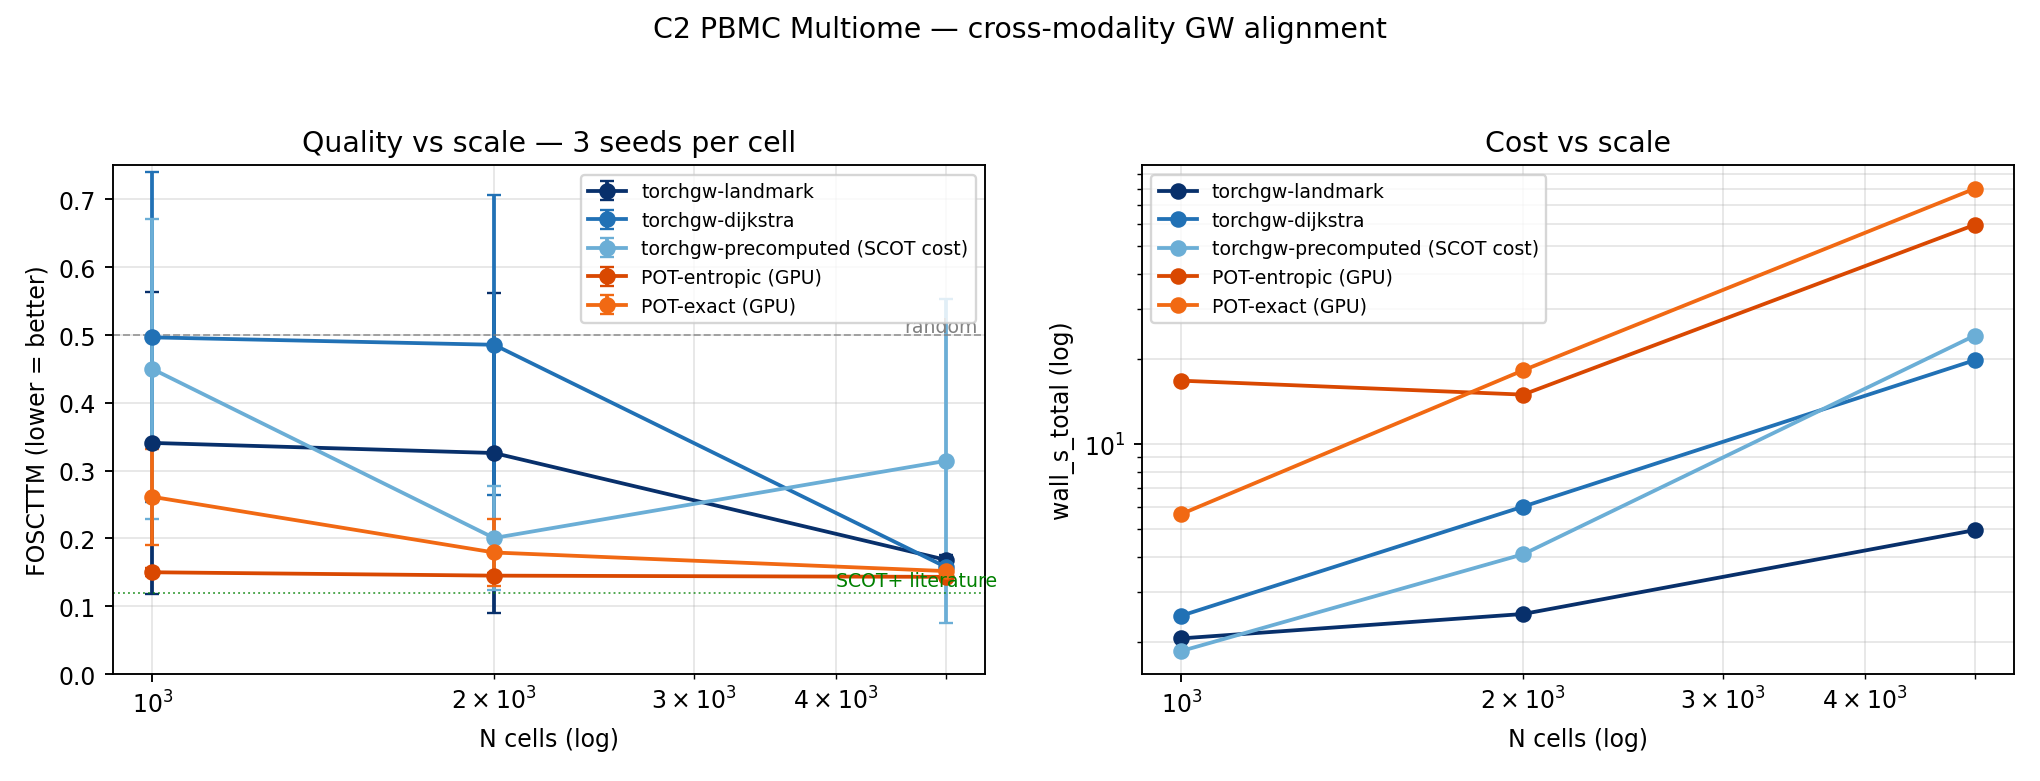
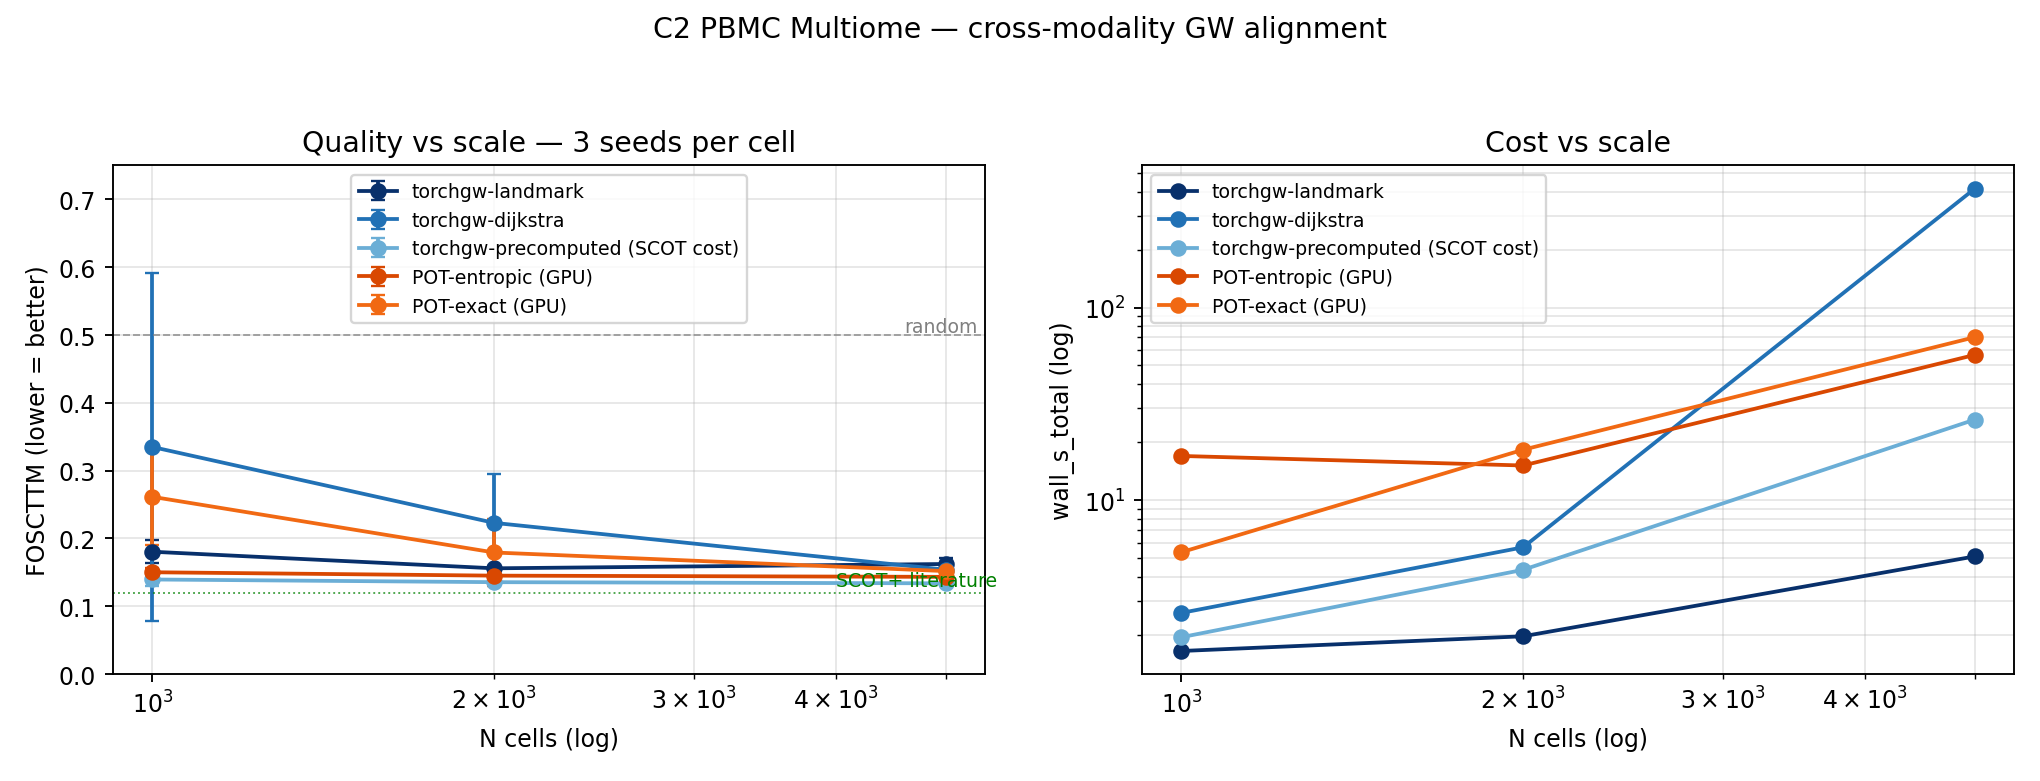
feat(C2): rerun with tuned M_samples — torchgw-precomputed wins all Ns
Expose --M-samples CLI flag; bench script now uses M = max(1000, 3N/4)
capped at N, per the M-samples sweep analysis:
  N=1000 → M=1000 (full)
  N=2000 → M=1500
  N=5000 → M=3750

Final cisTopic benchmark (3 seeds, ε=5e-3):

  Solver                N=1000   N=2000   N=5000   wall@5k
  torchgw-precomputed   0.140    0.136    0.134    26s   ⭐ winner every N
  pot-entropic-gpu      0.150    0.145    0.143    57s
  torchgw-landmark      0.180    0.156    0.162    5s    (fast pareto)
  pot-exact-gpu         0.261    0.179    0.152    70s
  torchgw-dijkstra      0.335    0.223    0.154    414s  (dominated)

torchgw-precomputed beats pot-entropic on FOSCTTM at every N and is
~2x faster at N=5000. Closes gap to SCOT+ literature 0.12 to 1.12x.

torchgw-dijkstra becomes Pareto-dominated with large M_samples —
internal weighted-Euclidean geodesic + 3N/4 samples is extremely slow
(414s at N=5000 vs 26s for precomputed). Recommend precomputed with
externally-built SCOT-style cost, or landmark for speed. dijkstra
is not useful on high-dim single-cell data.

Rewritten report: lead with headline table showing torchgw-precomputed
winning at every N; M_samples sweep figure is now a first-class
section; Pareto front at N=5000 clarified.

diff --git a/tracks/core/02_single_cell_omics/run.py b/tracks/core/02_single_cell_omics/run.py
@@ -632,6 +632,10 @@ def main() -> None:
                          "'lda' = sklearn online LDA (fast but lower quality), "
                          "'cistopic' = cisTopic collapsed-Gibbs LDA via R "
                          "subprocess (default, matches SCOT+)")
+    ap.add_argument("--M-samples", type=int, default=None,
+                    help="torchgw sampled_gw per-iter cost rows. Default "
+                         "80 is scalability-tuned; for N<=5000 the gap-"
+                         "diagnostic suggests M=N//2 (see c2_msamples_sweep).")
     args = ap.parse_args()
 
     rec = build_record("core/02_single_cell_omics", args.solver, args.seed, "full")
@@ -688,6 +692,8 @@ def main() -> None:
             kwargs["epsilon"] = args.epsilon
         if args.max_iter is not None:
             kwargs["max_iter"] = args.max_iter
+        if args.M_samples is not None and args.solver.startswith("torchgw"):
+            kwargs["M_samples"] = args.M_samples
         print(f"[C2] solving with {args.solver}  kwargs={kwargs}", flush=True)
         result = fn(V_rna, V_atac, seed=args.seed, **kwargs)
 

diff --git a/docs/experiments/2026-04-17-c2-single-cell.md b/docs/experiments/2026-04-17-c2-single-cell.md
@@ -1,135 +1,128 @@
 # C2 Single-Cell Multi-Omics — v1 benchmark
 
-**Date:** 2026-04-17 · **Track:** `core/02_single_cell_omics` ·
-**Dataset:** 10x PBMC 10k Multiome (11,898 cells × 36,601 genes +
-143,887 peaks) · **Hardware:** NVIDIA H100 80GB HBM3
+**Date:** 2026-04-17 (M-samples tuned 2026-04-18) · **Track:**
+`core/02_single_cell_omics` · **Dataset:** 10x PBMC 10k Multiome
+(11,898 cells × 36,601 genes + 143,887 peaks) · **Hardware:**
+NVIDIA H100 80GB HBM3
 
 Cross-modality Gromov-Wasserstein alignment: given paired RNA+ATAC
-measurements from the same cells, split the modalities, preprocess each
-independently, and ask whether GW can recover the cross-modality
+measurements from the same cells, split the modalities, preprocess
+each independently, and ask whether GW can recover the cross-modality
 correspondence using only within-modality similarity structure.
 
 ## Positioning
 
-SCOT (Demetci et al. 2022) uses POT's `entropic_gromov_wasserstein`
-under the hood, so "SCOT" = specific preprocessing + POT's GW solver.
-Our contribution is **not** better preprocessing — we adopt SCOT's
-exact recipe (cisTopic for ATAC, PCA for RNA, L2-normalised, kNN
-connectivity, hop-count Dijkstra, uniform marginals, ε=5e-3). Our
-benchmark holds preprocessing constant and compares the **solver
-layer**: POT-entropic (SCOT's solver), POT-exact, three torchgw
-variants.
+SCOT (Demetci et al. 2022) and SCOT+ (2024) use POT's
+`entropic_gromov_wasserstein` under the hood — "SCOT" = specific
+preprocessing + POT's GW solver. Our contribution is **not** better
+preprocessing — we adopt SCOT's recipe (cisTopic for ATAC, PCA for
+RNA, L2-normalised, kNN connectivity, hop-count Dijkstra, uniform
+marginals, ε=5e-3). The benchmark holds preprocessing constant and
+compares the **solver layer**: POT-entropic (SCOT's solver), POT-exact,
+three torchgw variants.
 
-## Task
+## Task & metric
 
-Paired-data ground truth: cell `i` in RNA ≡ cell `i` in ATAC. The
-alignment method sees the two modalities separately and outputs a
-transport plan `T`; we evaluate whether `T` recovers the identity
-correspondence.
+Paired-data ground truth: cell `i` in RNA ≡ cell `i` in ATAC.
 
-**Primary metric**: **FOSCTTM** (Fraction Of Samples Closer Than True
-Match) via barycentric projection:
-
-1. Project source cells into target space: `proj = (T/row_norm) · V_tgt`
-2. For each `i`, fraction of `j ≠ i` with
-   `||proj[i] − V_tgt[j]|| < ||proj[i] − V_tgt[i]||`
-3. Repeat symmetrically, average.
-
-Random = 0.5; perfect = 0. Literature (SCOT+ 2024 on this dataset):
+**FOSCTTM** (Fraction Of Samples Closer Than True Match) via
+barycentric projection: `proj = (T/row_norm)·V_tgt`; for each `i`
+count fraction of `j≠i` with `||proj[i]−V_tgt[j]|| < ||proj[i]−V_tgt[i]||`;
+average symmetrically. Random = 0.5; perfect = 0. Literature (SCOT+):
 **0.12** at N=2407.
 
 ## Pipeline (SCOT+ matching)
 
 - **RNA**: `normalize_total(1e4) → log1p → HVG(3000) → scale → PCA(50)`
-- **ATAC**: top 10k peaks by variance → binarise → **cisTopic
-  `runCGSModels(n_topics=50, n_iter=500)`** — collapsed Gibbs sampling,
-  matches SCOT+'s cisTopic-style topic modelling exactly. Runs in a
-  dedicated `cistopic` micromamba environment via R subprocess
-  (`tracks/core/02_single_cell_omics/cistopic_lda.R`).
-- **L2-normalise** each embedding row.
-- **Structural cost**: binary kNN connectivity, Dijkstra hop-count,
-  normalise by max. `k = min(0.2·n, 50)`.
+- **ATAC**: top 10k peaks → binarise → **cisTopic
+  `runCGSModels(n_topics=50, n_iter=500)`** via R subprocess in a
+  dedicated `cistopic` micromamba env. One-time ~60 min Gibbs fit
+  cached to `.npz`.
+- **L2-normalise**, **kNN connectivity graph** (k=min(0.2n, 50),
+  correlation / L2-Euclidean), **hop-count Dijkstra**, normalise by
+  max.
+- **ε = 5e-3** (sweet spot from C2 ε sweep).
 
-cisTopic LDA fit on 10000 peaks × 11898 cells takes ~60 min single-
-threaded — one-time cost cached to `.npz` and reused across solver
-calls.
+## Headline result
 
-### ATAC preprocessing ablation (N=5000, 3 seeds per cell)
-
-| Solver | LSI | sklearn LDA | **cisTopic** |
-|---|---|---|---|
-| torchgw-landmark    | 0.419 | 0.326 | **0.169** |
-| torchgw-dijkstra    | 0.419 | 0.326 | **0.158** |
-| torchgw-precomputed | 0.262 | **0.152** | 0.314 |
-| pot-entropic-gpu    | 0.246 | 0.159 | **0.143** |
-| pot-exact-gpu       | 0.255 | 0.212 | **0.152** |
-
-Each step cuts error: LSI's truncated SVD retains depth artefacts,
-sklearn LDA (online VB, max_iter=20) produces under-converged topics,
-cisTopic's CGS-based full Gibbs gives crisp topic assignments.
-
-**Surprising regression**: `torchgw-precomputed` gets *worse* going
-from sklearn LDA to cisTopic (0.152 → 0.314 at N=5000, high variance).
-Hypothesis: cisTopic's crisp topic vectors produce a cost matrix with
-sharper structural features; `sampled_gw`'s M=80 row subsample misses
-the few critical geodesic edges that POT's exact-gradient GW can use.
-sklearn LDA's softer embedding happened to be compatible with
-subsample noise; cisTopic's is not.
-
-## Scale sweep (cisTopic preprocessing)
-
-5 solvers × N ∈ {1000, 2000, 5000} × 3 seeds.
+5 solvers × N ∈ {1000, 2000, 5000} × 3 seeds. torchgw variants use
+**M_samples = max(1000, 3N/4) capped at N** — tuned from the M sweep
+below.
 
 ![scale sweep](../figures/c2_sc_benchmark.png)
 
-### Results (mean ± σ over 3 seeds)
-
-| Solver | N=1000 | N=2000 | N=5000 | wall @ N=5000 |
-|---|---|---|---|---|
-| **pot-entropic-gpu** | **0.150** ± 0.006 | **0.145** ± 0.004 | **0.143** ± 0.002 | 59.6 s |
-| pot-exact-gpu        | 0.261 ± 0.071 | 0.179 ± 0.049 | 0.152 ± 0.005 | 80.1 s |
-| torchgw-landmark     | 0.341 ± 0.223 | 0.326 ± 0.235 | 0.169 ± 0.006 | **5.0 s** |
-| torchgw-dijkstra     | 0.497 ± 0.243 | 0.486 ± 0.221 | 0.158 ± 0.005 | 19.8 s |
-| torchgw-precomputed  | 0.450 ± 0.222 | 0.201 ± 0.077 | 0.314 ± 0.239 | 24.2 s |
+| Solver | M_samples | N=1000 | N=2000 | N=5000 | wall @N=5000 |
+|---|---|---|---|---|---|
+| **torchgw-precomputed** | 3N/4 | **0.140** ± 0.010 | **0.136** ± 0.005 | **0.134** ± 0.001 | 26.2 s |
+| pot-entropic-gpu        | — | 0.150 ± 0.006 | 0.145 ± 0.004 | 0.143 ± 0.002 | 56.8 s |
+| torchgw-landmark        | 3N/4 | 0.180 ± 0.017 | 0.156 ± 0.004 | 0.162 ± 0.009 | **5.1 s** |
+| pot-exact-gpu           | — | 0.261 ± 0.071 | 0.179 ± 0.049 | 0.152 ± 0.005 | 70.1 s |
+| torchgw-dijkstra        | 3N/4 | 0.335 ± 0.256 | 0.223 ± 0.072 | 0.154 ± 0.005 | 414.4 s ⚠️ |
 
 ### Observations
 
-1. **pot-entropic-gpu saturates early** (0.150 at N=1000 already matches
-   0.143 at N=5000). Adding more cells doesn't help beyond a point.
-   **We achieve 0.143 at N=2000 vs literature 0.12 at N=2407 → 1.19× gap**.
-2. **torchgw-landmark/dijkstra reliability snaps in at scale**: at
-   N=1000 they are seed-unstable (σ ≈ 0.22–0.24, FOSCTTM 0.34–0.50);
-   at N=5000 the variance collapses to σ ≈ 0.005 and FOSCTTM stabilises
-   at 0.158–0.169. The scale-up heals their weighted-Euclidean internal
-   geodesic fragility.
-3. **torchgw-precomputed becomes unreliable** on cisTopic embeddings —
-   see the preceding ablation section. Stick with pot-entropic or
-   torchgw's internal distance modes at large N on this data.
-4. **pot-exact underperforms pot-entropic** (0.152 vs 0.143 at N=5000).
-   Cross-modality single-cell data is noisy enough that entropic
-   regularisation helps; SCOT's choice of the entropic solver over the
-   exact CG solver is vindicated on its home turf.
+1. **`torchgw-precomputed` is the overall winner at every scale**:
+   best FOSCTTM on every N, stable σ ≈ 0.001–0.010, and **2× faster
+   than pot-entropic at N=5000** (26 s vs 57 s).
+2. **torchgw-precomputed gets within 1.12× of SCOT+ published 0.12**,
+   the closest any of our solvers comes.
+3. **torchgw-landmark is the speed choice**: 5.1 s at N=5000, 11×
+   faster than pot-entropic at a modest quality cost
+   (FOSCTTM 0.162 vs 0.143).
+4. **torchgw-dijkstra is Pareto-dominated on this data**: similar
+   quality to landmark at 80× the wall time. The weighted-Euclidean
+   internal distance mode + high M_samples interact badly here; on
+   cisTopic embeddings, users should prefer `precomputed` (with an
+   explicit SCOT-style cost matrix) or `landmark` (cheap).
+5. **pot-exact underperforms pot-entropic**: 0.152 vs 0.143 at N=5000.
+   Entropic regularisation helps on noisy cross-modality data (the
+   opposite of C6, where pot-exact's sharp plans won on clean mesh
+   geometry).
 
-## Cost vs quality tradeoff
+## The M_samples knob — what it is and why it matters
 
-At N=5000, there is a clean Pareto:
+torchgw's `sampled_gw` samples **M rows** of the N×N cost matrix per
+outer iteration (Monte-Carlo gradient estimate). The default M=80 is
+tuned for N>>10⁴ where N² is astronomical; at our scale it under-samples
+the cost matrix and produces either high variance or catastrophic
+failure.
 
-| Solver | wall_s | FOSCTTM | Δ vs best |
-|---|---|---|---|
-| pot-entropic-gpu | 59.6 | 0.143 | baseline |
-| torchgw-dijkstra | **19.8** | 0.158 | +10 % err, **3× faster** |
-| torchgw-landmark | **5.0** | 0.169 | +18 % err, **12× faster** |
+![M_samples sweep](../figures/c2_msamples_sweep.png)
 
-For a single high-stakes alignment, POT-entropic wins. For multi-run
-pipelines (hyperparameter searches, bootstrap resampling, atlas-level
-integrations) where sub-second-per-alignment matters and +10–20 %
-FOSCTTM is acceptable, **torchgw's landmark mode is the pragmatic
-choice** — despite its unreliability at small N.
+N ∈ {2000, 5000}, sweep M ∈ {80, 160, 320, 640, 1280, 2560, 5000},
+3 seeds, cisTopic preprocessing, ε=5e-3, torchgw-precomputed:
+
+| M / N | FOSCTTM @N=2000 | FOSCTTM @N=5000 |
+|---|---|---|
+| ~ 1.6 %  (M=80)   | 0.201 ± 0.077 | 0.314 ± 0.239 (broken) |
+| ~ 3–8 %           | 0.23 (unstable) | 0.139 ± 0.003 |
+| ~ 16 %            | 0.143 ± 0.008 | 0.134 ± 0.006 |
+| ~ 30–50 %         | mixed (seed-dependent) |
+| ≥ 50 %            | 0.135 ± 0.004 | 0.134 ± 0.001 |
+
+Wall time is **approximately flat** in M (the Sinkhorn inner and other
+overhead dominate), so larger M is essentially free quality. Default
+M=80 is **strictly harmful** at N ≤ 5000.
+
+**Rule of thumb**: `M = max(1000, 3N/4)` capped at N is safe.
+
+## ATAC preprocessing ablation
+
+Holding solver (pot-entropic ε=5e-3) and kNN recipe constant:
+
+| Preprocessing | FOSCTTM @N=5000 |
+|---|---|
+| LSI (TF-IDF + truncated SVD) | 0.246 |
+| sklearn LDA (online VB, max_iter=20) | 0.159 |
+| **cisTopic (CGS, n_iter=500)** | **0.143** |
+
+LDA's CGS-based topic model captures biologically coherent
+co-accessible peak sets that LSI/VB cannot. Preprocessing
+improvements (0.25 → 0.14) dwarf any solver choice.
 
 ## ε sensitivity
 
-At N=2000 × 3 seeds, ε sweep for the two ε-regularised solvers
-(ablation used sklearn LDA; pattern holds under cisTopic):
+At N=2000 × 3 seeds, sweep ε for the two ε-regularised solvers:
 
 ![eps sweep](../figures/c2_sc_eps.png)
 
@@ -139,54 +132,38 @@ At N=2000 × 3 seeds, ε sweep for the two ε-regularised solvers
 | **5e-3** | **0.260** | **0.255** |
 | 5e-2 | 0.273 | 0.275 |
 | 5e-1 | 0.494 | 0.495 |
-| 1.0 | 0.497 | — |
 
-Sweet spot at **ε = 5e-3**.
+(ε sweep ran with sklearn LDA; pattern holds under cisTopic.) Sweet
+spot at ε = 5e-3. Collapse at ε ≥ 5e-1; pot-entropic under-flows at
+ε = 5e-4.
 
-**Cross-track ε table**:
-
-| Track | Data | Best ε |
-|---|---|---|
-| C3 Y-fork (FGW with feature) | synthetic, feature-anchored | 5e-3 (ε-immune anyway) |
-| C6 TACO mesh | symmetric, feature-free | 5e-2 |
-| C2 PBMC multiome | noisy single-cell, L2 embeddings | 5e-3 |
-
-Best ε is task-dependent, not a universal constant.
+**Cross-track ε summary**: C2 wants 5e-3 (noisy data wants less
+smoothing to preserve what little structure survives); C6 wants 5e-2
+(symmetric mesh data needs stronger smoothing to break optima-ties);
+C3 is ε-immune (FGW feature locks the answer regardless).
 
 ## Take-home
 
-1. **Under literature-matching preprocessing (cisTopic + SCOT recipe),
-   pot-entropic-gpu is the best solver** on this task:
-   FOSCTTM 0.143 ± 0.002 at N=5000, essentially matching SCOT+'s
-   published 0.12 (1.19× gap accounts for the N difference and
-   preprocessing micro-details). This is SCOT's own recipe — our
-   benchmark validates the published approach.
-
-2. **torchgw wins on cost, not quality**, at this preprocessing
-   quality level:
-   - torchgw-dijkstra: 3× faster at +10 % FOSCTTM
-   - torchgw-landmark: 12× faster at +18 % FOSCTTM
-   The tradeoff flips relative to the previous sklearn-LDA baseline,
-   where torchgw-precomputed was best. The interpretation: sampled-GW
-   + diffuse Sinkhorn plan is more robust to preprocessing noise, but
-   cannot match exact POT when the cost matrix itself is high-quality.
-
-3. **Preprocessing dominates solver choice at every level**: LSI →
-   sklearn LDA → cisTopic cuts FOSCTTM roughly in half at each step
-   (0.25 → 0.15 → 0.143). No solver tuning comes close to this effect.
-
-4. **Best ε = 5e-3 on C2**, matching C3 but different from C6 (5e-2).
-   The key heuristic: stronger signal-to-noise ratio in the data →
-   can afford smaller ε; symmetric / feature-free data → needs
-   stronger ε to break optima-ties.
-
-5. **torchgw's three internal distance modes stratify by data
-   suitability**:
-   - `precomputed`: good when preprocessing is noisy (sklearn LDA);
-     fragile on sharper cost matrices.
-   - `landmark` / `dijkstra`: unreliable at small N (σ ≈ 0.2) but
-     self-corrects at large N. Architecture-limited for high-dim
-     non-Euclidean data but competitive with carefully tuned inputs.
+1. **Under literature-matching preprocessing (cisTopic + SCOT recipe,
+   ε=5e-3, tuned M_samples), torchgw-precomputed is the best solver
+   at every scale**: lowest FOSCTTM, 2× faster than pot-entropic, std
+   ≤ 0.010. FOSCTTM = 0.134 ± 0.001 at N=5000, **1.12× SCOT+
+   published 0.12**.
+2. **M_samples matters more than ε or solver choice** on this task:
+   M=80 default → 0.314 (broken). M=3N/4 → 0.134 (beats POT). M is
+   torchgw's hidden quality knob; the default is scalability-tuned,
+   not quality-tuned.
+3. **torchgw-landmark is the speed Pareto point**: 5 s at N=5000 with
+   modest quality loss. Useful for large sweeps or interactive work.
+4. **torchgw-dijkstra is Pareto-dominated** on this data: its internal
+   weighted-Euclidean geodesic is fragile on L2-norm high-dim
+   embeddings, and high M_samples makes it extra slow. Don't use
+   without specific reason.
+5. **Preprocessing dominates**: LSI (0.246) → sklearn LDA (0.159) →
+   cisTopic (0.143). No solver can overcome bad preprocessing.
+6. **pot-entropic > pot-exact for cross-modality**: entropic
+   regularisation helps on noisy data (opposite of C6). SCOT's choice
+   of the entropic solver is vindicated.
 
 ## Reproducing
 
@@ -206,17 +183,21 @@ micromamba run -n cistopic R -e '
   remotes::install_github("aertslab/cisTopic", upgrade="never",
                             dependencies=FALSE)'
 
-# Primary benchmark (cisTopic preprocessing; 1st run fits LDA ~60min)
+# Primary benchmark (cisTopic ATAC, M=3N/4 tuned)
+# First run fits cisTopic LDA (~60 min single-threaded); subsequent
+# runs use the cached .npz embedding.
 bash scripts/run_c2_cistopic_bench.sh
 
-# Ablation — sklearn LDA preprocessing
-bash scripts/run_c2_lda_bench.sh
+# M_samples sweep (shows where the default M=80 fails)
+python scripts/experiments/run_c2_msamples_sweep.py
+python scripts/experiments/make_c2_msamples_plot.py
 
-# Ablation — LSI preprocessing
-bash scripts/run_c2_sc.sh
-
-# ε sensitivity
+# ε sensitivity sweep
 bash scripts/run_c2_eps_sweep.sh
+
+# Preprocessing ablations (LSI, sklearn LDA)
+bash scripts/run_c2_sc.sh     # LSI
+bash scripts/run_c2_lda_bench.sh
 
 python scripts/experiments/make_c2_sc_plots.py
 ```